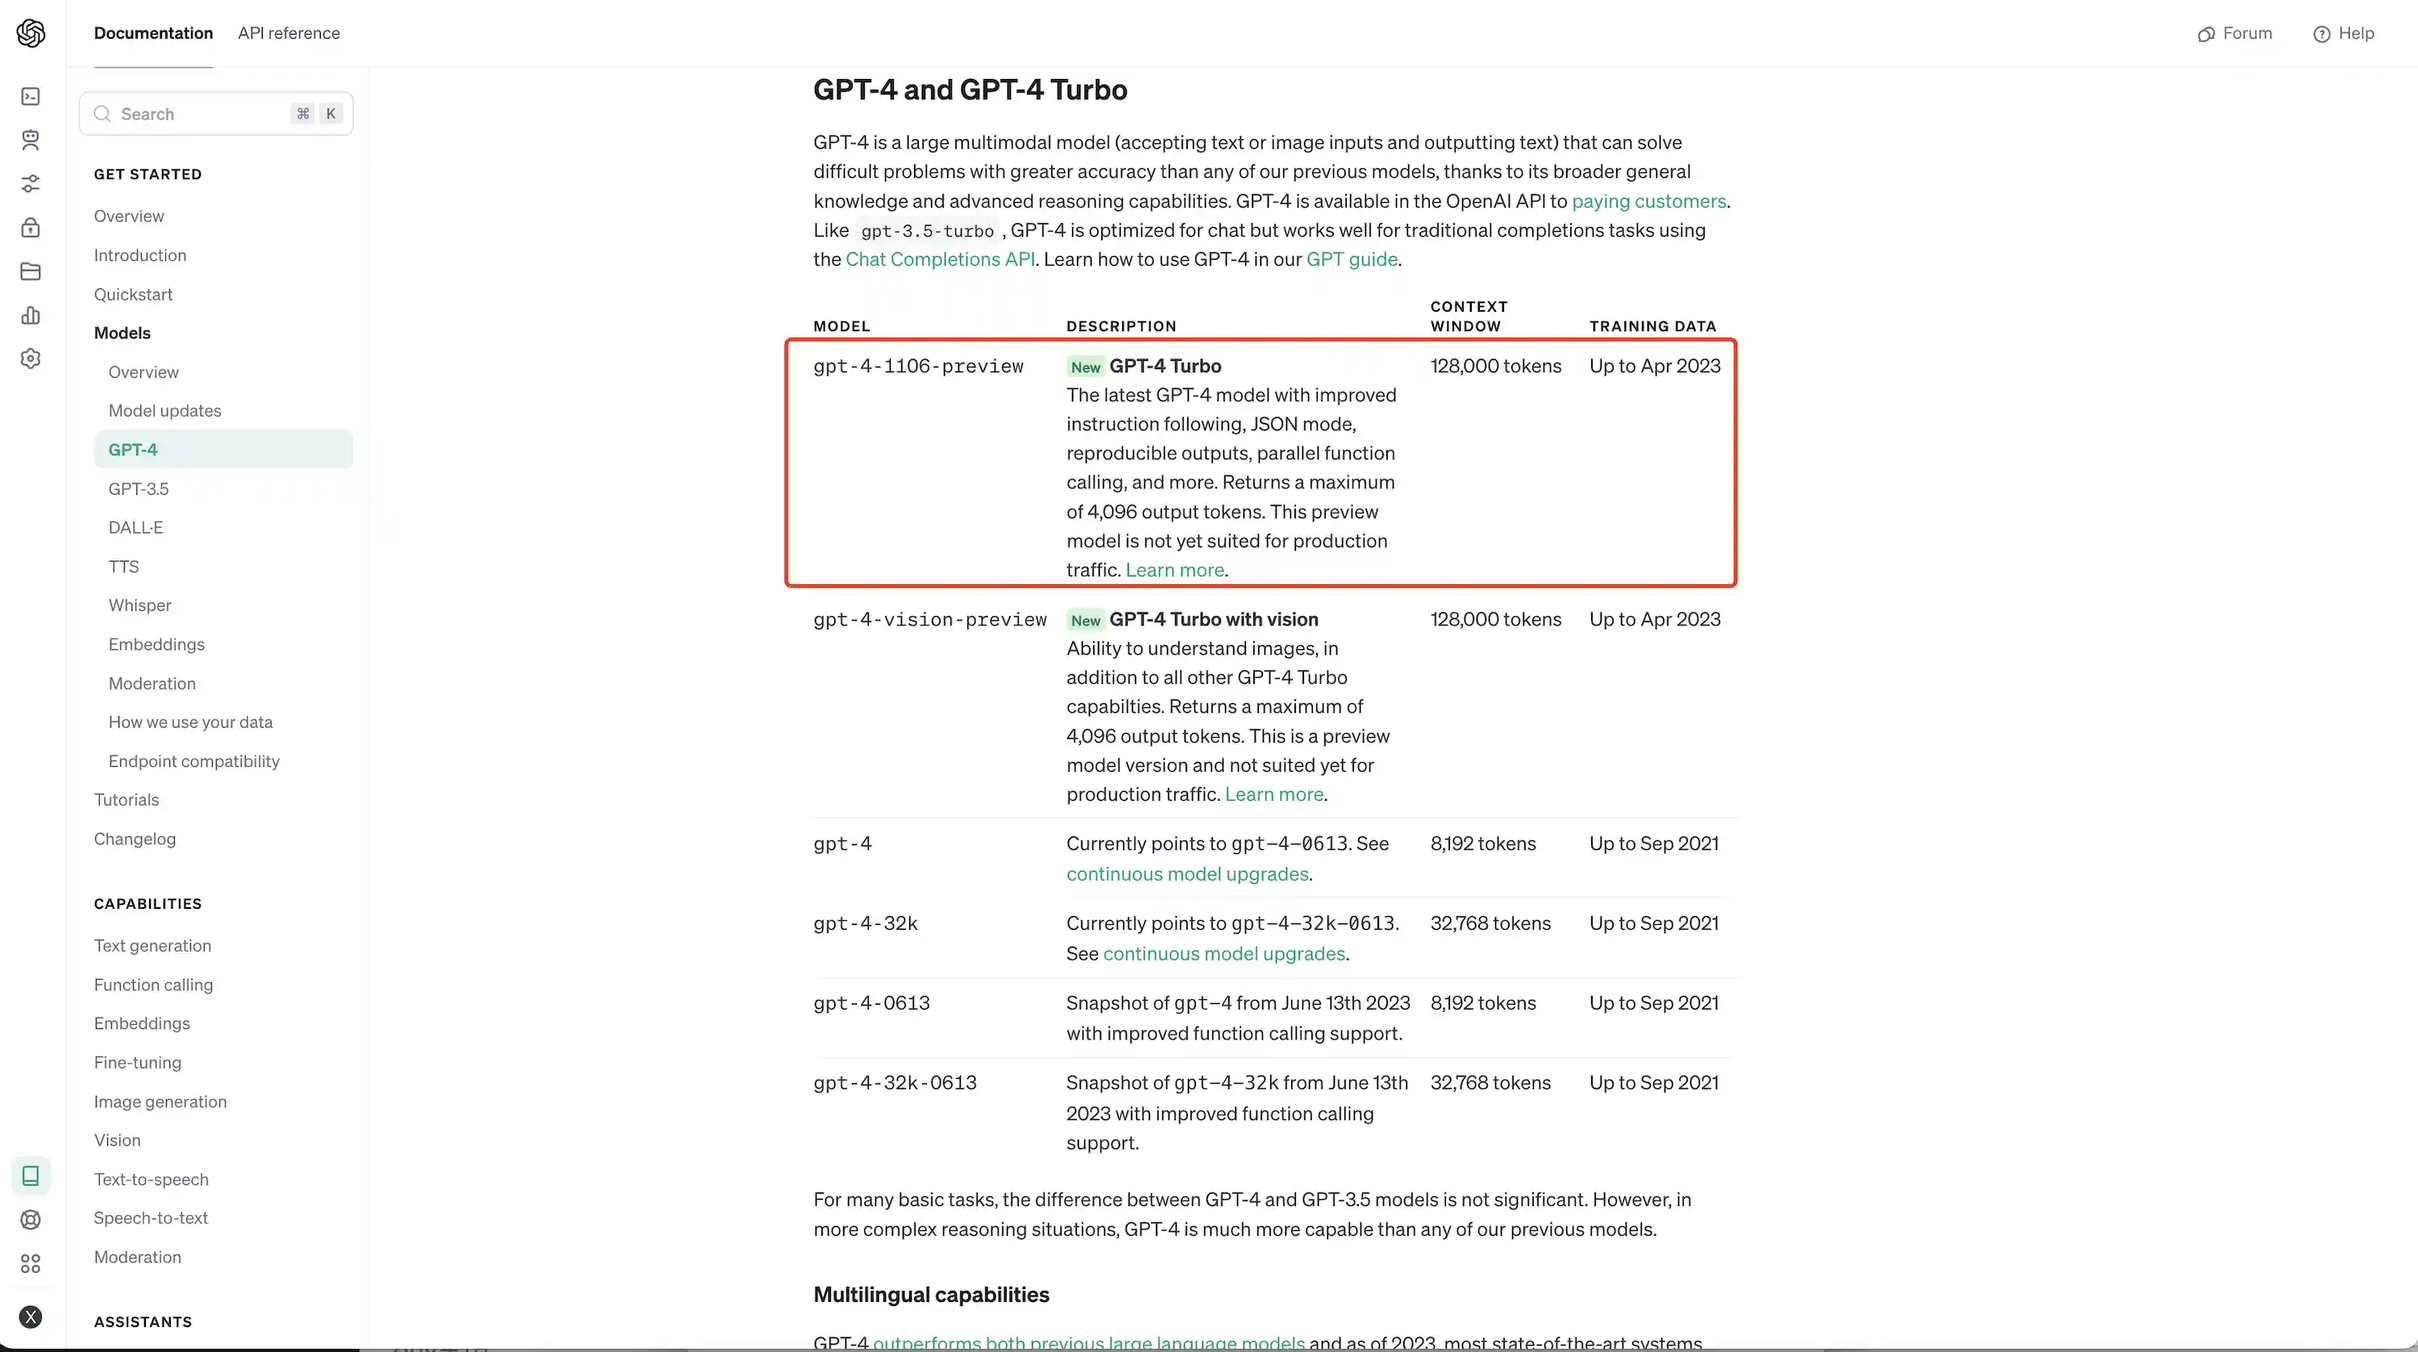
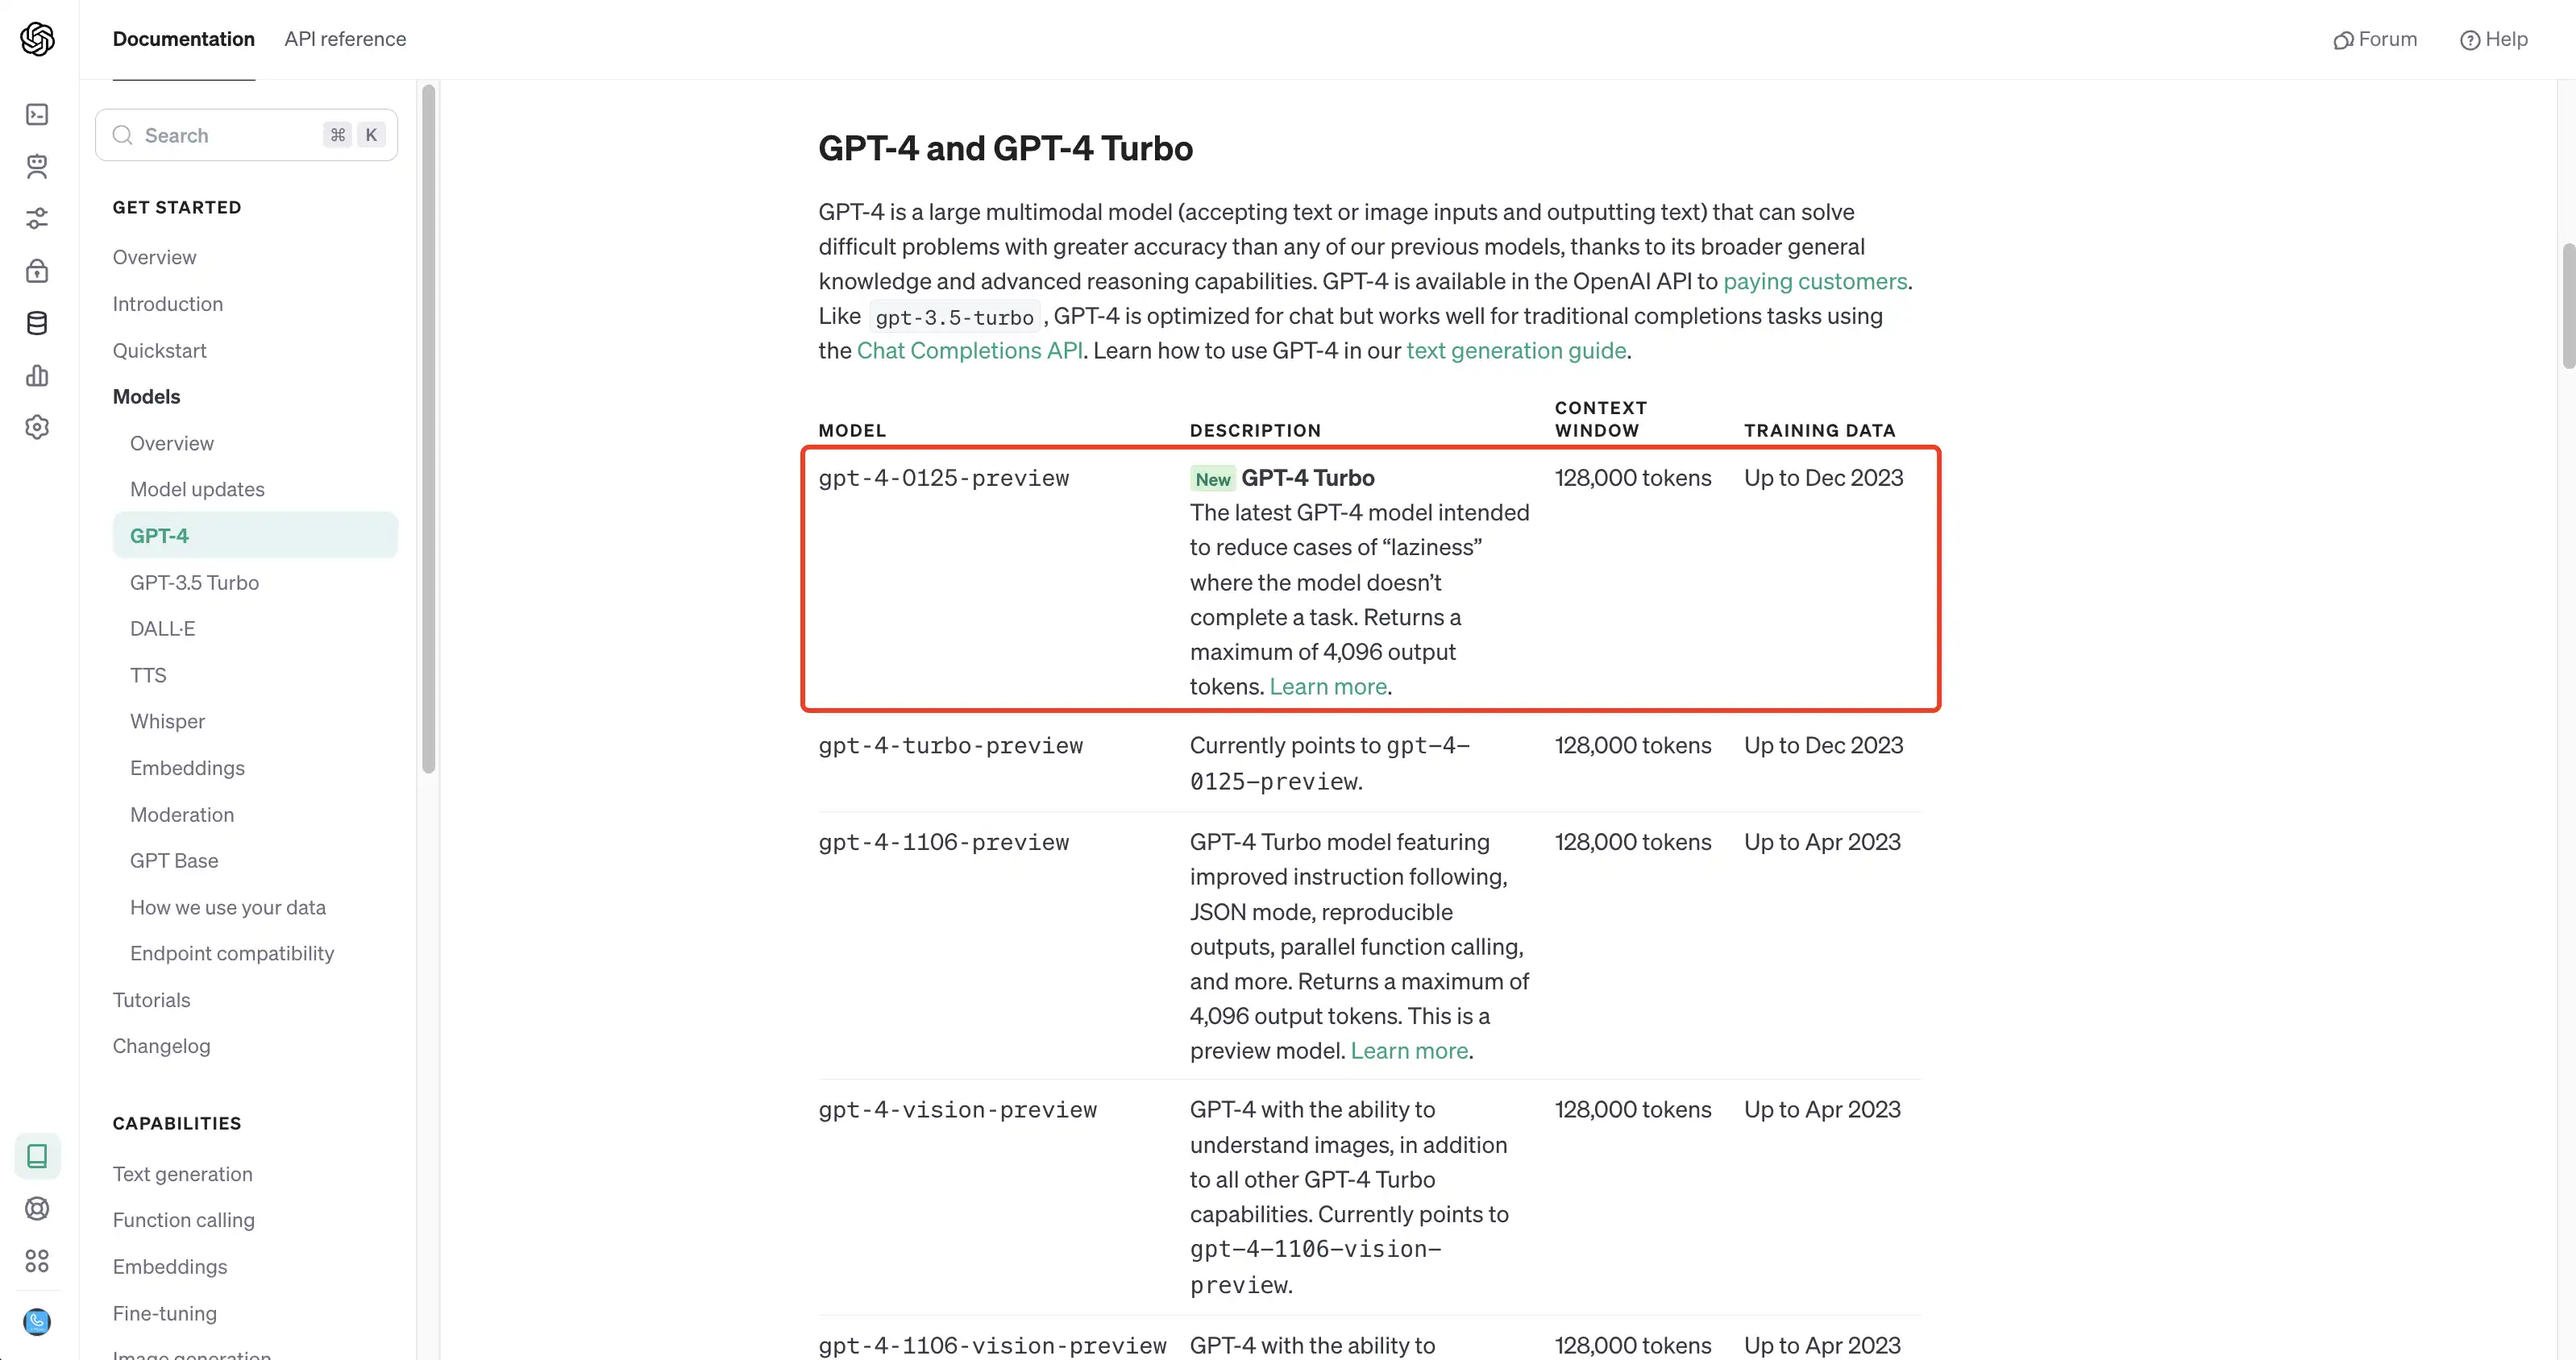
new model

diff --git a/_posts/chatgpt-china-cn.md b/_posts/chatgpt-china-cn.md
@@ -1,6 +1,6 @@
 ---
 title: '方便的使用GPT-4模型'
-excerpt: '无需穿越网络障碍，无需高昂的月费，现在您就能在中国大陆及港澳地区畅享世界上最尖端的gpt-4-1106-preview模型。立即访问 https://chat.bizoe.tech，选择您的专属套餐，即可轻松获取访问权限。仅需200元的年费或30元的月费，高端的AI技术便触手可及。我们致力于打破技术壁垒，让前沿的AI科技服务于每一个家庭，每一个用户。立刻行动，让智能科技成为生活的一部分！'
+excerpt: '无需穿越网络障碍，无需高昂的月费，现在您就能在中国大陆及港澳地区畅享世界上最尖端的gpt-4-0125-preview模型。立即访问 https://chat.bizoe.tech，选择您的专属套餐，即可轻松获取访问权限。仅需300元的年费或40元的月费，高端的AI技术便触手可及。我们致力于打破技术壁垒，让前沿的AI科技服务于每一个家庭，每一个用户。立刻行动，让智能科技成为生活的一部分！'
 coverImage: '/assets/blog/chatgpt-china-cn/cover.webp'
 date: '2023-06-09T05:35:07.322Z'
 author:
@@ -10,16 +10,16 @@ ogImage:
   url: '/assets/blog/chatgpt-china-cn/cover.webp'
 ---
 
-无需穿越网络障碍，无需高昂的月费，现在您就能在中国大陆及港澳地区畅享世界上最尖端的gpt-4-1106-preview模型。立即访问 [**https://chat.bizoe.tech**](https://chat.bizoe.tech) ，选择您的专属套餐，即可轻松获取访问权限。仅需200元的年费或30元的月费，高端的AI技术便触手可及。
+无需穿越网络障碍，无需高昂的月费，现在您就能在中国大陆及港澳地区畅享世界上最尖端的gpt-4-0125-preview模型。立即访问 [**https://chat.bizoe.tech**](https://chat.bizoe.tech) ，选择您的专属套餐，即可轻松获取访问权限。仅需300元的年费或40元的月费，高端的AI技术便触手可及。
 我们致力于打破技术壁垒，让前沿的AI科技服务于每一个家庭，每一个用户。立刻行动，让智能科技成为生活的一部分！
 
-我们支持OpenAI最新的gpt-4-1106-preview模型
+我们支持OpenAI最新的gpt-4-0125-preview模型
 ![这是图片](/assets/blog/chatgpt-china-cn/model_description.webp "model_description")
 
-gpt-4-1106-preview模型相较之前的模型做了很多优化，并且训练数据截止日期是2023年4月，可以结合最新的知识解答问题
+gpt-4-0125-preview模型相较之前的模型做了很多优化，并且训练数据截止日期是2023年4月，可以结合最新的知识解答问题
 ![这是图片](/assets/blog/chatgpt-china-cn/official_website.webp "official_website")
 
-系统默认选择的是gpt-4-1106-preview模型，也可以选择gpt-3.5-turbo-1106模型
+系统默认选择的是gpt-4-0125-preview模型，也可以选择gpt-3.5-turbo-1106模型
 ![这是图片](/assets/blog/chatgpt-china-cn/choose_model.webp "choose_model")
 
 立即引领行业潮流，提升您的业务竞争力！选择GPT-4，选择智能的力量。现在就按照以下步骤购买您的专属套餐，并开始设置，开启您的AI转型之旅。
